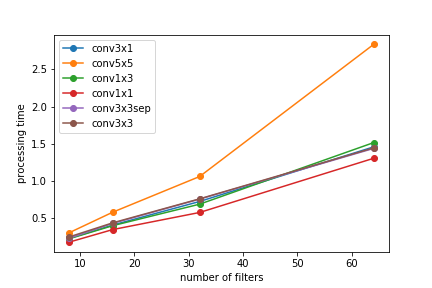
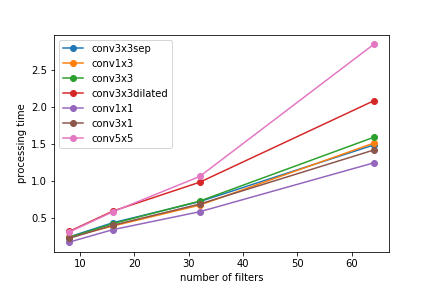
add dilated results

diff --git a/README.md b/README.md
@@ -12,33 +12,31 @@ Evaluating efficiency of several types of convolutions.
 
 ![keras_cpu](results/keras_cpu.png)
 
-||conv1x1|conv3x1|conv1x3|conv3x3sep|conv3x3|conv5x5|
-|:-:|:-:|:-:|:-:|:-:|:-:|:-:|
-|processing time [sec]|6.693|14.083|14.022|7.197|43.729|118.820|
-|vs 3x3|0.153|0.322|0.321|0.165|1.000|2.717|
-|theoretical complexity|0.111|0.333|0.333|0.016|1.000|2.778|
+||conv1x1|conv3x1|conv1x3|conv3x3sep|conv3x3|conv5x5|conv3x3dilated|
+|:-:|:-:|:-:|:-:|:-:|:-:|:-:|:-:|
+|processing time [sec]|6.736|14.133|14.043|7.184|43.700|118.898|49.442|
+|vs 3x3|0.154|0.323|0.321|0.164|1.000|2.721|1.131|
+|theoretical complexity|0.111|0.333|0.333|0.016|1.000|2.778|1.000|
 
 ### Keras GPU
 
 ![keras_gpu](results/keras_gpu.png)
 
-convs = ["conv1x1", "conv3x1", "conv1x3", "conv3x3sep", "conv3x3", "conv5x5", "conv3x3dilated"]
-
 ||conv1x1|conv3x1|conv1x3|conv3x3sep|conv3x3|conv5x5|conv3x3dilated|
-|:-:|:-:|:-:|:-:|:-:|:-:|:-:|
-|processing time [sec]|1.248|1.422|1.515|1.490|1.594|2.851|2.088|
-|vs 3x3|0.783|0.892|0.951|0.935|1.000|1.789|1.310|
+|:-:|:-:|:-:|:-:|:-:|:-:|:-:|:-:|
+|processing time [sec]|1.135|1.525|1.440|1.556|1.571|2.848|2.008|
+|vs 3x3|0.722|0.971|0.916|0.990|1.000|1.812|1.278|
 |theoretical complexity|0.111|0.333|0.333|0.016|1.000|2.778|1.000|
 
 ### PyTorch CPU
 
 ![pytorch_cpu](results/pytorch_cpu.png)
 
-||conv1x1|conv3x1|conv1x3|conv3x3sep|conv3x3|conv5x5|
-|:-:|:-:|:-:|:-:|:-:|:-:|:-:|
-|processing time [sec]|6.920|17.099|17.088|16.628|48.608|133.599|
-|vs 3x3|0.142|0.352|0.352|0.342|1.000|2.748|
-|theoretical complexity|0.111|0.333|0.333|0.016|1.000|2.778|
+||conv1x1|conv3x1|conv1x3|conv3x3sep|conv3x3|conv5x5|conv3x3dilated|
+|:-:|:-:|:-:|:-:|:-:|:-:|:-:|:-:|
+|processing time [sec]|6.956|17.209|16.916|16.480|50.636|133.781|111.480|
+|vs 3x3|0.137|0.340|0.334|0.325|1.000|2.642|2.202|
+|theoretical complexity|0.111|0.333|0.333|0.016|1.000|2.778|1.000|
 
 ### PyTorch GPU
 
@@ -60,12 +58,11 @@ convs = ["conv1x1", "conv3x1", "conv1x3", "conv3x3sep", "conv3x3", "conv5x5", "c
 
 `cudnn.benchmark = True`, `cudnn.fastest = True`
 
-||conv1x1|conv3x1|conv1x3|conv3x3sep|conv3x3|conv5x5|
-|:-:|:-:|:-:|:-:|:-:|:-:|:-:|
-|processing time [sec]|0.096|0.173|0.169|1.717|0.230|0.985|
-|vs 3x3|0.416|0.752|0.733|7.460|1.000|4.280|
-|theoretical complexity|0.111|0.333|0.333|0.016|1.000|2.778|
-
+||conv1x1|conv3x1|conv1x3|conv3x3sep|conv3x3|conv5x5|conv3x3dilated|
+|:-:|:-:|:-:|:-:|:-:|:-:|:-:|:-:|
+|processing time [sec]|0.102|0.180|0.186|1.951|0.230|1.024|0.484|
+|vs 3x3|0.444|0.780|0.809|8.464|1.000|4.446|2.101|
+|theoretical complexity|0.111|0.333|0.333|0.016|1.000|2.778|1.000|
 
 ## References
 
